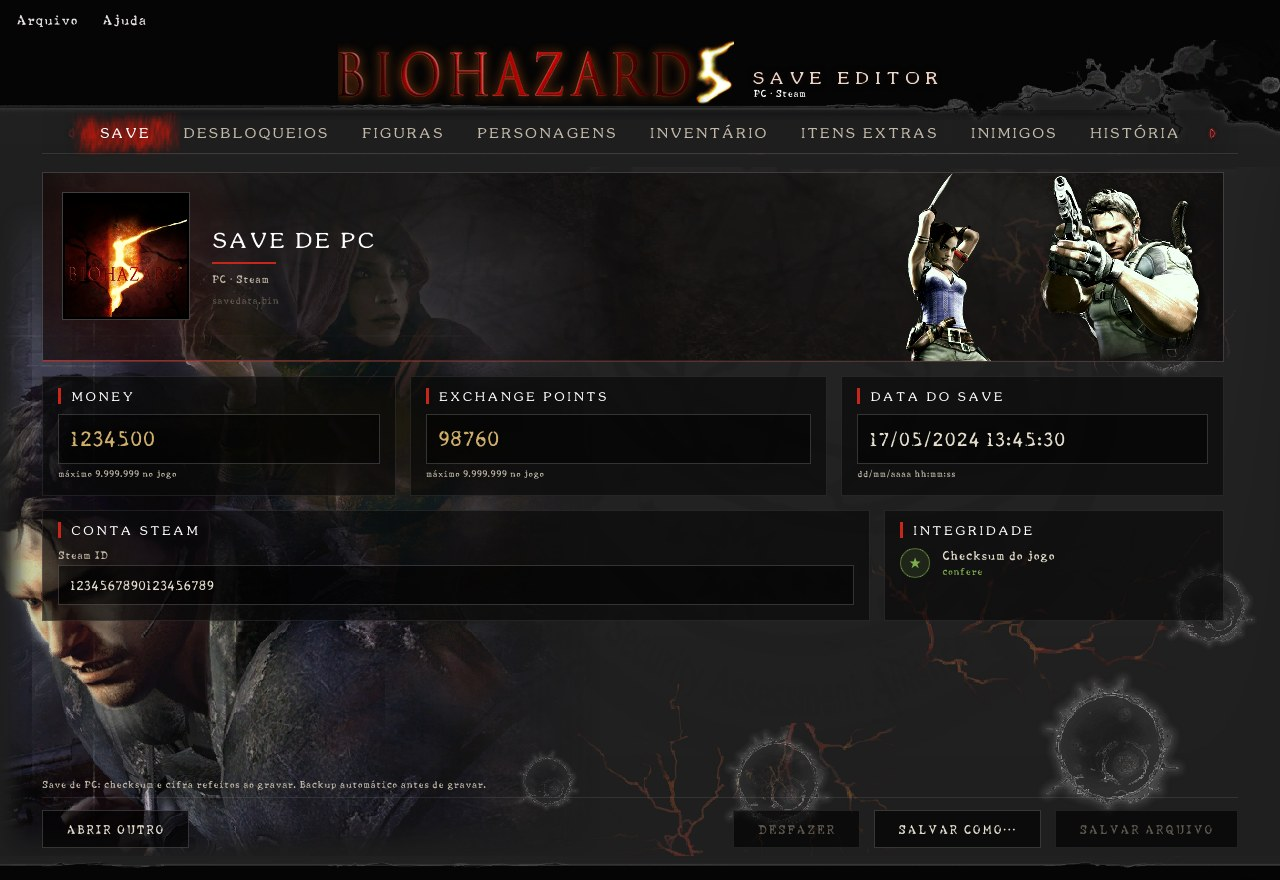
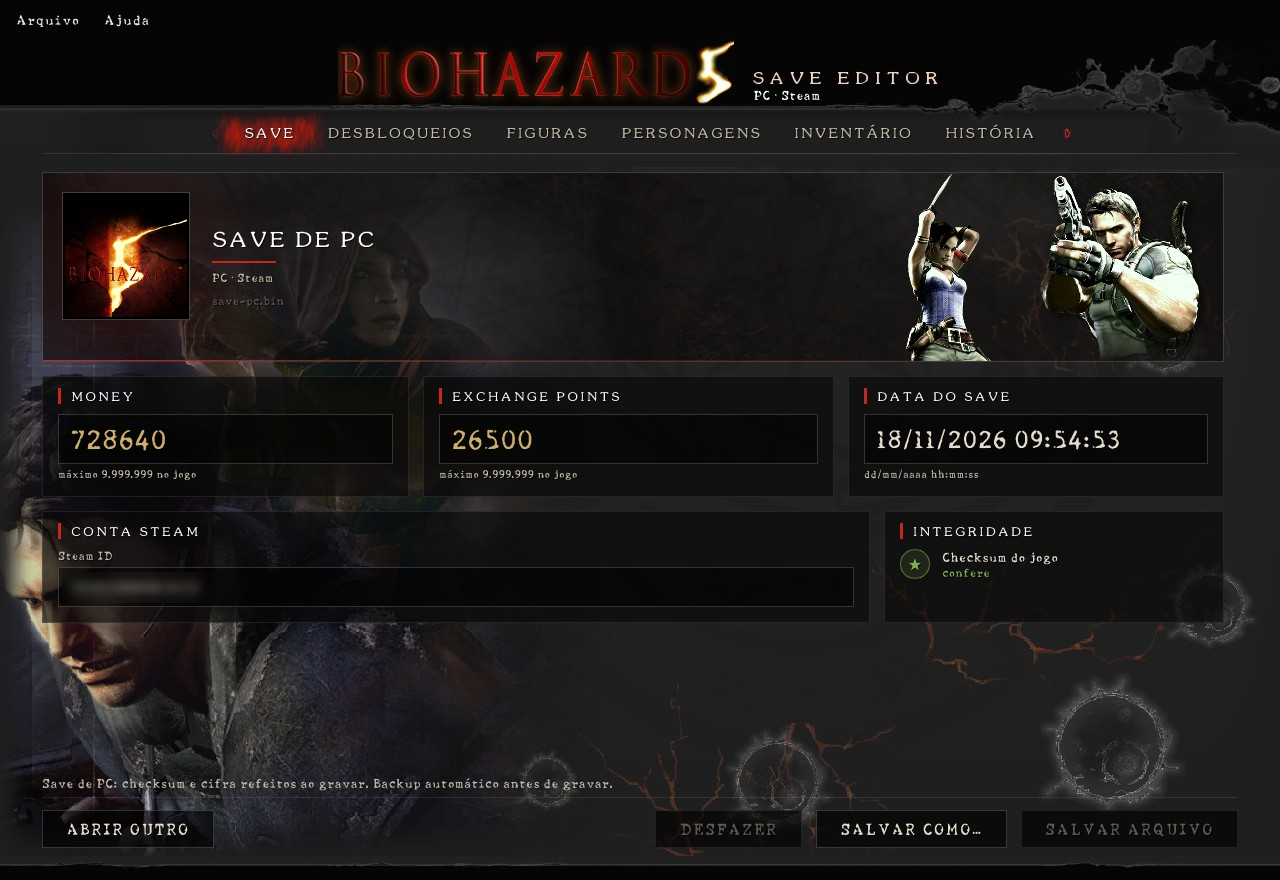
Samurai Edge do Barry, fonte do jogo e prints novos no histórico de versões

diff --git a/README.md b/README.md
@@ -55,10 +55,8 @@ nem instalador.
 | **Save** | Faixa com o logo do jogo, Chris e Sheva da arte do The Mercenaries ao fundo, nome do save, Gold, Exchange Points, data, perfil com gamertag, pasta correta no pendrive e o estado da integridade (checksum, hashes e assinatura). |
 | **Desbloqueios** | Roupas do Chris e da Sheva, filtros de tela, munição infinita das 19 armas (com o ícone de cada uma), os 12 arquivos da Biblioteca, as 46 Figuras e, no PC, as 10 Figuras extras. |
 | **Figuras** | A máquina de cápsulas e as bolinhas das Figuras, como no menu do jogo: as 46 Figuras e, no PC, as 10 Figuras extras, com o nome de cada uma e a opção de desbloquear. |
-| **Personagens** | Os 9 slots do Chris e da Sheva, oferecendo só o que o jogo aceita em cada slot, com as melhorias de cada arma. |
+| **Personagens** | Os 9 slots do Chris e da Sheva, oferecendo só o que o jogo aceita em cada slot, com as melhorias de cada arma. A Px4 e as duas Samurai Edge (a do Wesker e a do Barry) trazem a ficha do jogo: potência, capacidade, recarga, crítico, perfuração e mira. |
 | **Inventário** | O baú em grade de ícones, como no jogo, com as abas Inventário (com filtro por categoria) e Tesouros (com "Colocar todos"). Quantidades altas no inventário voltam ao padrão do jogo ao mover o item para os slots dos personagens. |
-| **Itens Extras** | Consulta aos registros da tabela de itens que não vão para o save (objetos de fase, itens das DLCs, não testados e internos), com ficha de cada um. |
-| **Inimigos** | Os inimigos, animais e personagens da tela de Recordes do jogo, com a foto, o nome em português e o original e a Figura de cada um. |
 | **História** | Os 12 arquivos da Biblioteca com as ilustrações do jogo, os 26 documentos das fases e os 9 das DLCs, traduzidos para o português. |
 
 O catálogo cobre os **407 registros de item** do jogo, com nome oficial,
@@ -82,11 +80,11 @@ descrição e os **174 ícones originais** do RE5 e das DLCs.
 | ![Tela inicial](docs/prints/inicio.jpg) | ![Aba Save](docs/prints/save-novo.jpg) |
 | ![Personagens](docs/prints/personagens.jpg) | ![Inventário](docs/prints/inventario.jpg) |
 | ![Munição infinita](docs/prints/desbloqueios-municao.jpg) | ![Figuras](docs/prints/figuras.jpg) |
-| ![Inimigos](docs/prints/inimigos.jpg) | ![História](docs/prints/historia.jpg) |
-| ![Save de PC (Steam)](docs/prints/pc-steam.jpg) | ![Tesouros](docs/prints/tesouros.jpg) |
-| ![Melhorias das armas](docs/prints/melhorias.jpg) | |
+| ![História](docs/prints/historia.jpg) | ![Save de PC (Steam)](docs/prints/pc-steam.jpg) |
+| ![Tesouros](docs/prints/tesouros.jpg) | ![Melhorias das armas](docs/prints/melhorias.jpg) |
 
-As capturas da aba Save usam um save de exemplo com perfil e IDs fictícios.
+As capturas usam saves reais do Xbox 360 e da Steam, com o perfil, os IDs e a
+pasta do pendrive desfocados.
 
 ---
 

diff --git a/CHANGELOG.md b/CHANGELOG.md
@@ -12,6 +12,30 @@ Primeira versão.
 ### Correções depois do lançamento
 As correções entram na própria 1.0.0 (o download da release é atualizado).
 
+- **18/11 — Fonte do jogo nos textos:** os textos das abas voltam à
+  máquina de escrever do jogo, agora tirada da versão de PC, num tamanho
+  normal e com a sombra escura que o jogo põe nas letras. A Noto Sans Mono
+  fica só como reserva para os poucos caracteres que o jogo não tem.
+  Títulos, botões e a tela inicial não mudaram.
+- **18/11 — Ilustração das armas:** no painel do slot, a ilustração da
+  Biblioteca fica à esquerda do nome, sem o retângulo preto, e sobra mais
+  altura para a lista de escolha.
+- **18/11 — Samurai Edge do Barry:** a 0x0112, arma do Barry no The
+  Mercenaries Reunion, entra no baú e nos slots do Chris e da Sheva, com o
+  ícone dela (a pistola preta com o emblema dos S.T.A.R.S.). Testada no
+  jogo da Steam: atira, recarrega e continua no save depois que o jogo
+  grava. Na campanha ela fica no slot sem figura, porque o ícone está numa
+  textura que só o Mercenaries Reunion e as DLCs carregam.
+- **18/11 — Samurai Edge do Wesker:** passa a mostrar o ícone que o jogo usa
+  para ela (a pistola com lanterna) no lugar da silhueta da loja.
+- **18/11 — Ficha das pistolas:** a Px4 e as duas Samurai Edge mostram no
+  painel a ficha lida no jogo: potência, capacidade, recarga, crítico,
+  perfuração e mira. O crítico da Px4 (×7) dá 87,5% de chance num tiro na
+  cabeça de um Majini; as outras duas, 12,5%. O painel avisa também que as
+  três vendem por ₦0.
+- **18/11 — Abas Itens Extras e Inimigos:** saíram. Eram só de consulta e
+  não mudavam nada no save; o editor fica com as abas que editam o save e a
+  História. O executável ficou cerca de 0,5 MB menor.
 - **13/11 — Nomes e moldura:** os nomes com o inglês não têm mais
   parênteses dentro de parênteses: "Ovo podre (Egg, Rotten)", "Erva V+Vm
   (Herb, G+R)". Nos quadrados do baú, dos tesouros, da escolha do item e dos
